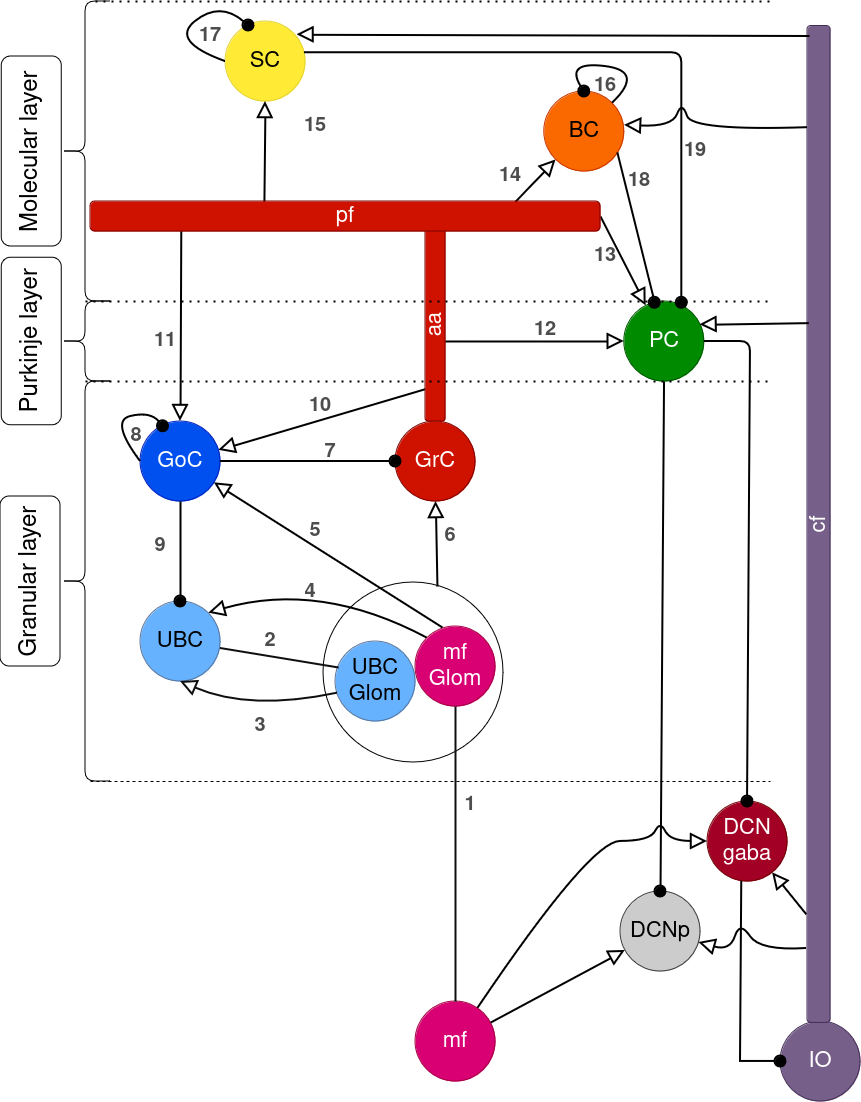
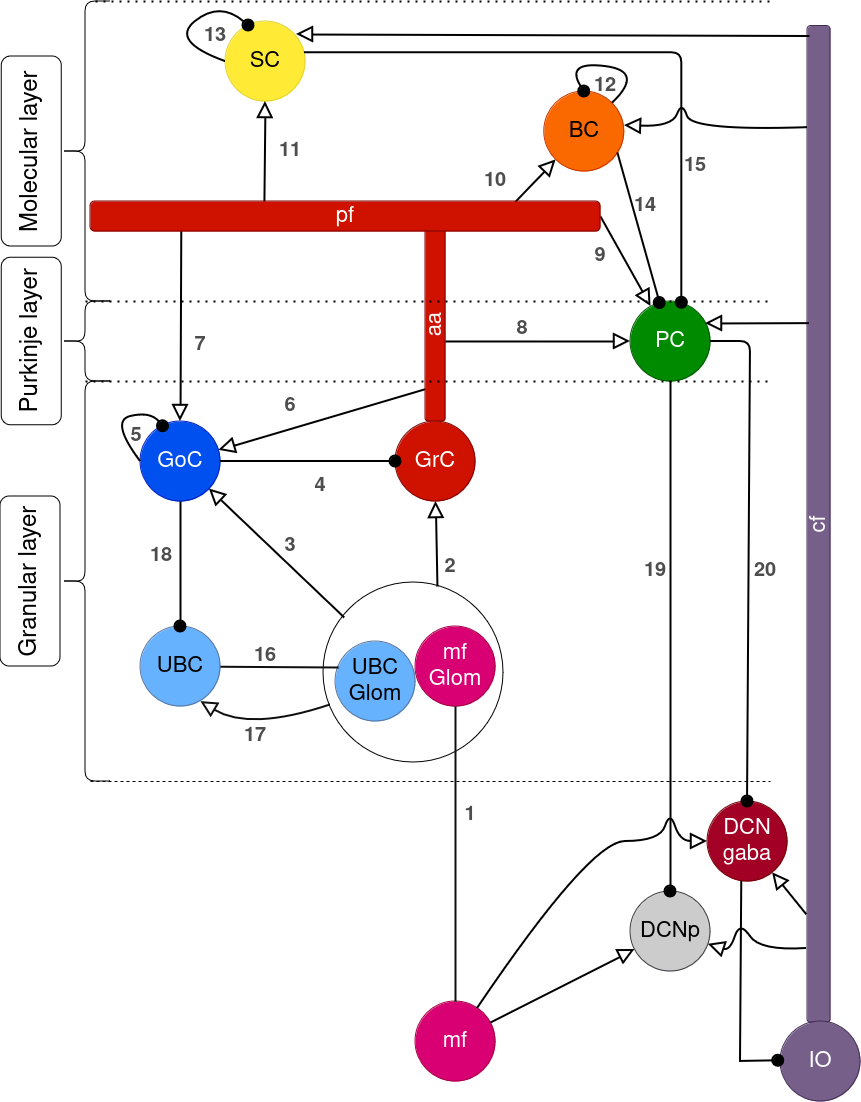
Simplify glom to UBC connectivity. Update circuit figure.

diff --git a/cerebellum/connectome/glomerulus_ubc.py b/cerebellum/connectome/glomerulus_ubc.py
@@ -17,9 +17,6 @@ class ConnectomeGlomerulusUBC(PresynDistStrat, ConnectionStrategy):
     ratios_ubc: dict[str, float] = config.dict(type=float, required=True)
     """Dictionary that links a postsynaptic celltype name to the ratios of the presynaptic UBC 
         population that connects to it."""
-    force_ratio: bool = config.attr(type=bool, required=False, default=False)
-    """Flag to force indegree ratios to be maintained. Otherwise (default behavior, priority is given to the pre-post 
-        distance constraint."""
 
     def boot(self):
         parsed_ratios = {
@@ -36,40 +33,25 @@ class ConnectomeGlomerulusUBC(PresynDistStrat, ConnectionStrategy):
         self.ratios_ubc = parsed_ratios.copy()
 
     def connect(self, pre, post):
-        tot_pre = {}
         pre_cts = []
         connected_gloms = {}
         for pre_ps in pre.placement:
             pre_ct = pre_ps.cell_type.name
             connected_gloms[pre_ct] = np.full(len(pre_ps), False, dtype=bool)
-            tot_pre[pre_ct] = len(pre_ps)
             pre_cts.append(pre_ct)
-        tot_post = {ps.cell_type.name: len(ps) for ps in post.placement}
-        if sum(tot_pre.values()) < sum(tot_post.values()):
-            if self.force_ratio:
-                raise ConnectivityError(
-                    "Not enough presynpatic cells to match the provided ratios."
-                )
-            # If too many postsynaptic cells with respect to pre,
-            # we reduce the number of connectable postsynaptic cells
-            tot_post[post.cell_type.name] *= sum(tot_pre.values()) / sum(tot_post.values())
 
-        if self.force_ratio:
-            for pre_ct in pre_cts:
-                if sum(tot_post.values()) * self.ratios_ubc[pre_ct] > tot_pre[pre_ct]:
-                    raise ConnectivityError(
-                        f"Not enough presynpatic cells of type {pre_ct} to match the provided ratios."
-                    )
         for post_ps in post.placement:
             ubc_pos = post_ps.load_positions()
-            ubc_ids = np.random.permutation(len(ubc_pos))[: tot_post[post_ps.cell_type.name]]
+            ubc_ids = np.random.permutation(len(ubc_pos))
             ubc_pos = ubc_pos[ubc_ids]
             cum_sum = 0
+            loc_ratio = 0
             for pre_ct, pre_ps in zip(pre_cts, pre.placement):
                 # select the ratio of random ubc ids to connect
-                loc_ratio = self.ratios_ubc[pre_ct]
-                loc_ubc_ids = ubc_ids[cum_sum : cum_sum + int(np.round(len(ubc_pos) * loc_ratio))]
-                cum_sum = int(np.round(len(ubc_pos) * loc_ratio))
+                loc_ratio += self.ratios_ubc[pre_ct]
+                new_ptr = min(len(ubc_ids), int(np.round(len(ubc_pos) * loc_ratio)))
+                loc_ubc_ids = ubc_ids[cum_sum:new_ptr]
+                cum_sum = new_ptr
 
                 glom_pos = pre_ps.load_positions()
                 selected_ubc = ubc_pos[loc_ubc_ids]
@@ -77,17 +59,18 @@ class ConnectomeGlomerulusUBC(PresynDistStrat, ConnectionStrategy):
                 n_conn = len(selected_ubc)  # one glom per ubc
                 pre_locs = np.full((n_conn, 3), -1, dtype=int)
                 post_locs = np.full((n_conn, 3), -1, dtype=int)
-                i = 0
-                for ubc in selected_ubc:
-                    distances = np.linalg.norm(ubc - glom_pos[~connected_gloms[pre_ct]], axis=1)
-                    avaiable_gloms_ids = np.where(~connected_gloms[pre_ct])[0]
-                    id_sorted_distances = np.argsort(distances)
-                    sorted_distances = distances[id_sorted_distances]
-                    if np.any(sorted_distances <= self.radius) or self.force_ratio:
-                        pre_id = avaiable_gloms_ids[id_sorted_distances[0]]
-                        post_locs[i] = loc_ubc_ids[i]
-                        pre_locs[i] = pre_id
-                        connected_gloms[pre_ct][pre_id] = True
-                        i += 1
+                for i, ubc in enumerate(selected_ubc):
+                    filter_connected = ~connected_gloms[pre_ct]
+                    if not np.any(filter_connected):
+                        # if no glom is left un-connected
+                        # we reset the connected list
+                        connected_gloms[pre_ct][:] = False
+                    avaiable_gloms_ids = np.where(filter_connected)[0]
+                    distances = np.linalg.norm(ubc - glom_pos[filter_connected], axis=1)
+                    # Take closest glom
+                    pre_id = avaiable_gloms_ids[np.argsort(distances)[0]]
+                    post_locs[i] = loc_ubc_ids[i]
+                    pre_locs[i] = pre_id
+                    connected_gloms[pre_ct][pre_id] = True
 
-                self.connect_cells(pre_ps, post_ps, pre_locs[:i], post_locs[:i])
+                self.connect_cells(pre_ps, post_ps, pre_locs, post_locs)

diff --git a/test/test_glomerulus_ubc.py b/test/test_glomerulus_ubc.py
@@ -1,7 +1,7 @@
 import unittest
 
 import numpy as np
-from bsb import Configuration, ConfigurationError, Scaffold
+from bsb import Configuration, ConfigurationError, Scaffold, WorkflowError
 from bsb_test import NetworkFixture, NumpyTestCase, RandomStorageFixture
 
 
@@ -22,6 +22,7 @@ class TestGlomerulus_to_UBC(
             cell_types=dict(
                 pre_cell=dict(spatial=dict(radius=2, count=100)),
                 pre_cell2=dict(spatial=dict(radius=2, count=100)),
+                single_cell=dict(spatial=dict(radius=2, count=10)),
                 test_cell=dict(spatial=dict(radius=2, count=100)),
             ),
             partitions=dict(
@@ -38,7 +39,7 @@ class TestGlomerulus_to_UBC(
                 random_placement=dict(
                     strategy="bsb.placement.RandomPlacement",
                     partitions=["layer"],
-                    cell_types=["pre_cell", "pre_cell2", "test_cell"],
+                    cell_types=["pre_cell", "pre_cell2", "test_cell", "single_cell"],
                 ),
             ),
             connectivity=dict(),
@@ -101,4 +102,5 @@ class TestGlomerulus_to_UBC(
         self.network.compile(skip_placement=True, append=True)
         cs1 = self.network.get_connectivity_set("glom_ubc_pre_cell_to_test_cell")
         cs2 = self.network.get_connectivity_set("glom_ubc_pre_cell2_to_test_cell")
-        # self.assertTrue(abs(len(cs1) - len(cs2) // 3) <= 1)
+        self.assertClose(len(cs2) / len(cs1), 3, atol=3e-1)
+        self.assertClose(len(cs1) + len(cs2), 100, atol=1)
